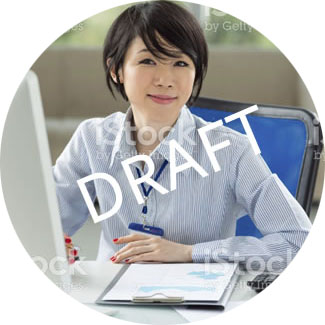
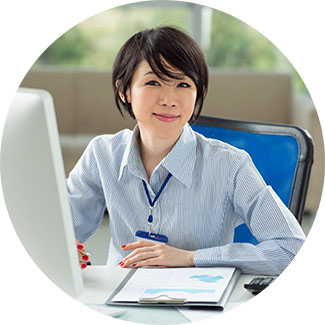
More repo tweaks and updated persona photos

diff --git a/personas.html b/personas.html
@@ -10,7 +10,7 @@
         rel="stylesheet" type="text/css">
   <link href="css/kie-ux-sandbox.css" rel="stylesheet" type="text/css" media="screen">
 </head>
-<body>
+<body class="body--gray">
 <!-- header -->
 <nav class="navbar navbar-default navbar-pf" role="navigation">
   <div class="navbar-header">
@@ -35,7 +35,7 @@
       <li>
         <a href="/kie-uxd-sandbox/guide.html">Style Guide</a>
       </li>
-      <li class="pull-right">
+      <li class="pull-right-lg">
         <a href="https://github.com/kiegroup/kie-uxd-sandbox">GitHub</a>
       </li>
     </ul>
@@ -43,170 +43,178 @@
 </nav>
 
 <!-- main -->
-<div class="container">
+<div class="container-flex">
   <div class="row">
     <div class="col-md-12">
       <div class="cards-pf">
         <div class="row row-cards-pf">
 
           <div class="col-xs-12 col-sm-6 col-md-4 col-lg-3">
-            <div class="card-pf card-pf-view">
-              <div class="card-pf-body">
-                <div class="card-pf-top-element">
-                  <a href="img/personas/aimee.jpg">
-                    <img src="img/personas/aimee_portrait.jpg" class="card-pf-icon-circle">
-                  </a>
-                </div>
-                <h2 class="card-pf-title text-center">
-                  <a href="img/personas/aimee.jpg">Aimee</a>
-                </h2>
-                <div class="card-pf-items text-center">
-                  <div class="card-pf-item">
-                    <span class="card-pf-item-text">Associate Process Manager</span>
+            <a href="img/personas/aimee.jpg">
+              <div class="card-pf card-pf-view">
+                <div class="card-pf-body">
+                  <div class="card-pf-top-element">
+                    <img src="img/personas/aimee_portrait.jpg"
+                         class="card-pf-icon-circle card-pf-icon-circle--unbordered">
+                  </div>
+                  <h2 class="card-pf-title text-center">
+                    Aimee
+                  </h2>
+                  <div class="card-pf-items text-center">
+                    <div class="card-pf-item">
+                      <span class="card-pf-item-text">Associate Process Manager</span>
+                    </div>
                   </div>
                 </div>
               </div>
-            </div>
+            </a>
           </div>
 
           <div class="col-xs-12 col-sm-6 col-md-4 col-lg-3">
-            <div class="card-pf card-pf-view">
-              <div class="card-pf-body">
-                <div class="card-pf-top-element">
-                  <a href="img/personas/cameron.jpg">
-                    <img src="img/personas/cameron_portrait.jpg" class="card-pf-icon-circle">
-                  </a>
-                </div>
-                <h2 class="card-pf-title text-center">
-                  <a href="img/personas/cameron.jpg">Cameron</a>
-                </h2>
-                <div class="card-pf-items text-center">
-                  <div class="card-pf-item">
-                    <span class="card-pf-item-text">Citizen Developer</span>
+            <a href="img/personas/cameron.jpg">
+              <div class="card-pf card-pf-view">
+                <div class="card-pf-body">
+                  <div class="card-pf-top-element">
+                    <img src="img/personas/cameron_portrait.jpg"
+                         class="card-pf-icon-circle card-pf-icon-circle--unbordered">
+                  </div>
+                  <h2 class="card-pf-title text-center">
+                    Cameron
+                  </h2>
+                  <div class="card-pf-items text-center">
+                    <div class="card-pf-item">
+                      <span class="card-pf-item-text">Citizen Developer</span>
+                    </div>
                   </div>
                 </div>
               </div>
-            </div>
+            </a>
           </div>
 
           <div class="col-xs-12 col-sm-6 col-md-4 col-lg-3">
-            <div class="card-pf card-pf-view">
-              <div class="card-pf-body">
-                <div class="card-pf-top-element">
-                  <a href="img/personas/cami.jpg">
-                    <img src="img/personas/cami_portrait.jpg" class="card-pf-icon-circle">
-                  </a>
-                </div>
-                <h2 class="card-pf-title text-center">
-                  <a href="img/personas/cami.jpg">Cami</a>
-                </h2>
-                <div class="card-pf-items text-center">
-                  <div class="card-pf-item">
-                    <span class="card-pf-item-text">Case Manager</span>
+            <a href="img/personas/cami.jpg">
+              <div class="card-pf card-pf-view">
+                <div class="card-pf-body">
+                  <div class="card-pf-top-element">
+                    <img src="img/personas/cami_portrait.jpg"
+                         class="card-pf-icon-circle card-pf-icon-circle--unbordered">
+                  </div>
+                  <h2 class="card-pf-title text-center">
+                    Cami
+                  </h2>
+                  <div class="card-pf-items text-center">
+                    <div class="card-pf-item">
+                      <span class="card-pf-item-text">Case Manager</span>
+                    </div>
                   </div>
                 </div>
               </div>
-            </div>
+            </a>
           </div>
 
           <div class="col-xs-12 col-sm-6 col-md-4 col-lg-3">
-            <div class="card-pf card-pf-view">
-              <div class="card-pf-body">
-                <div class="card-pf-top-element">
-                  <a href="img/personas/deepak.jpg">
-                    <img src="img/personas/deepak_portrait.jpg" class="card-pf-icon-circle">
-                  </a>
-                </div>
-                <h2 class="card-pf-title text-center">
-                  <a href="img/personas/deepak.jpg">Deepak</a>
-                </h2>
-                <div class="card-pf-items text-center">
-                  <div class="card-pf-item">
-                    <span class="card-pf-item-text">Remote Java Developer</span>
+            <a href="img/personas/deepak.jpg">
+              <div class="card-pf card-pf-view">
+                <div class="card-pf-body">
+                  <div class="card-pf-top-element">
+                    <img src="img/personas/deepak_portrait.jpg"
+                         class="card-pf-icon-circle card-pf-icon-circle--unbordered">
+                  </div>
+                  <h2 class="card-pf-title text-center">
+                    Deepak
+                  </h2>
+                  <div class="card-pf-items text-center">
+                    <div class="card-pf-item">
+                      <span class="card-pf-item-text">Remote Java Developer</span>
+                    </div>
                   </div>
                 </div>
               </div>
-            </div>
+            </a>
           </div>
 
           <div class="col-xs-12 col-sm-6 col-md-4 col-lg-3">
-            <div class="card-pf card-pf-view">
-              <div class="card-pf-body">
-                <div class="card-pf-top-element">
-                  <a href="img/personas/irene.png">
-                    <img src="img/personas/irene_portrait.jpg" class="card-pf-icon-circle">
-                  </a>
-                </div>
-                <h2 class="card-pf-title text-center">
-                  <a href="img/personas/irene.png">Irene</a>
-                </h2>
-                <div class="card-pf-items text-center">
-                  <div class="card-pf-item">
-                    <span class="card-pf-item-text">IT System Administrator</span>
+            <a href="img/personas/irene.png">
+              <div class="card-pf card-pf-view">
+                <div class="card-pf-body">
+                  <div class="card-pf-top-element">
+                    <img src="img/personas/irene_portrait.jpg"
+                         class="card-pf-icon-circle card-pf-icon-circle--unbordered">
+                  </div>
+                  <h2 class="card-pf-title text-center">
+                    Irene
+                  </h2>
+                  <div class="card-pf-items text-center">
+                    <div class="card-pf-item">
+                      <span class="card-pf-item-text">IT System Administrator</span>
+                    </div>
                   </div>
                 </div>
               </div>
-            </div>
+            </a>
           </div>
 
           <div class="col-xs-12 col-sm-6 col-md-4 col-lg-3">
-            <div class="card-pf card-pf-view">
-              <div class="card-pf-body">
-                <div class="card-pf-top-element">
-                  <a href="img/personas/katie.jpg">
-                    <img src="img/personas/katie_portrait.jpg" class="card-pf-icon-circle">
-                  </a>
-                </div>
-                <h2 class="card-pf-title text-center">
-                  <a href="img/personas/katie.jpg">Katie</a>
-                </h2>
-                <div class="card-pf-items text-center">
-                  <div class="card-pf-item">
-                    <span class="card-pf-item-text">Knowledge Worker</span>
+            <a href="img/personas/katie.jpg">
+              <div class="card-pf card-pf-view">
+                <div class="card-pf-body">
+                  <div class="card-pf-top-element">
+                    <img src="img/personas/katie_portrait.jpg"
+                         class="card-pf-icon-circle card-pf-icon-circle--unbordered">
+                  </div>
+                  <h2 class="card-pf-title text-center">
+                    Katie
+                  </h2>
+                  <div class="card-pf-items text-center">
+                    <div class="card-pf-item">
+                      <span class="card-pf-item-text">Knowledge Worker</span>
+                    </div>
                   </div>
                 </div>
               </div>
-            </div>
+            </a>
           </div>
 
           <div class="col-xs-12 col-sm-6 col-md-4 col-lg-3">
-            <div class="card-pf card-pf-view">
-              <div class="card-pf-body">
-                <div class="card-pf-top-element">
-                  <a href="img/personas/patrick.png">
-                    <img src="img/personas/patrick_portrait.jpg" class="card-pf-icon-circle">
-                  </a>
-                </div>
-                <h2 class="card-pf-title text-center">
-                  <a href="img/personas/patrick.png">Patrick</a>
-                </h2>
-                <div class="card-pf-items text-center">
-                  <div class="card-pf-item">
-                    <span class="card-pf-item-text">Process Administrator</span>
+            <a href="img/personas/patrick.png">
+              <div class="card-pf card-pf-view">
+                <div class="card-pf-body">
+                  <div class="card-pf-top-element">
+                    <img src="img/personas/patrick_portrait.jpg"
+                         class="card-pf-icon-circle card-pf-icon-circle--unbordered">
+                  </div>
+                  <h2 class="card-pf-title text-center">
+                    Patrick
+                  </h2>
+                  <div class="card-pf-items text-center">
+                    <div class="card-pf-item">
+                      <span class="card-pf-item-text">Process Administrator</span>
+                    </div>
                   </div>
                 </div>
               </div>
-            </div>
+            </a>
           </div>
 
           <div class="col-xs-12 col-sm-6 col-md-4 col-lg-3">
-            <div class="card-pf card-pf-view">
-              <div class="card-pf-body">
-                <div class="card-pf-top-element">
-                  <a href="img/personas/paula.jpg">
-                    <img src="img/personas/paula_portrait.jpg" class="card-pf-icon-circle">
-                  </a>
-                </div>
-                <h2 class="card-pf-title text-center">
-                  <a href="img/personas/paula.jpg">Paula</a>
-                </h2>
-                <div class="card-pf-items text-center">
-                  <div class="card-pf-item">
-                    <span class="card-pf-item-text">Senior Process Manager</span>
+            <a href="img/personas/paula.jpg">
+              <div class="card-pf card-pf-view">
+                <div class="card-pf-body">
+                  <div class="card-pf-top-element">
+                    <img src="img/personas/paula_portrait.jpg"
+                         class="card-pf-icon-circle card-pf-icon-circle--unbordered">
+                  </div>
+                  <h2 class="card-pf-title text-center">
+                    Paula
+                  </h2>
+                  <div class="card-pf-items text-center">
+                    <div class="card-pf-item">
+                      <span class="card-pf-item-text">Senior Process Manager</span>
+                    </div>
                   </div>
                 </div>
               </div>
-            </div>
+            </a>
           </div>
 
         </div>
@@ -226,5 +234,12 @@
   </div>
 </div>
 </div>
+
+<!-- Scripts -->
+<script src="https://code.jquery.com/jquery-1.12.4.js"></script>
+<script src="https://maxcdn.bootstrapcdn.com/bootstrap/3.3.7/js/bootstrap.min.js"></script>
+<script src="https://cdnjs.cloudflare.com/ajax/libs/bootstrap-select/1.12.2/js/bootstrap-select.min.js"></script>
+<script src="https://cdn.datatables.net/1.10.16/js/jquery.dataTables.min.js"></script>
+
 </body>
 </html>

diff --git a/index.html b/index.html
@@ -22,7 +22,7 @@
         <span class="icon-bar"></span>
       </button>
       <a class="navbar-brand" href="/">
-        BPM UX Sandbox
+        UXD Sandbox
       </a>
     </div>
     <div class="collapse navbar-collapse navbar-collapse-1">
@@ -36,7 +36,7 @@
         <li>
           <a href="/kie-uxd-sandbox/guide.html">Style Guide</a>
         </li>
-        <li class="pull-right">
+        <li class="pull-right-lg">
           <a href="https://github.com/kiegroup/kie-uxd-sandbox">GitHub</a>
         </li>
       </ul>
@@ -49,10 +49,10 @@
     <div class="row">
       <div class="col-md-12">
         <div class="table-responsive">
-          <table id="sandbox" class="table table-striped table-bordered table-hover">
+          <table id="sandbox" class="table table-bordered table-hover">
             <thead>
               <tr>
-                <th>Last Updated</th>
+                <th>Last&nbsp;Updated</th>
                 <th>Name</th>
                 <th>Author</th>
                 <th>Type</th>
